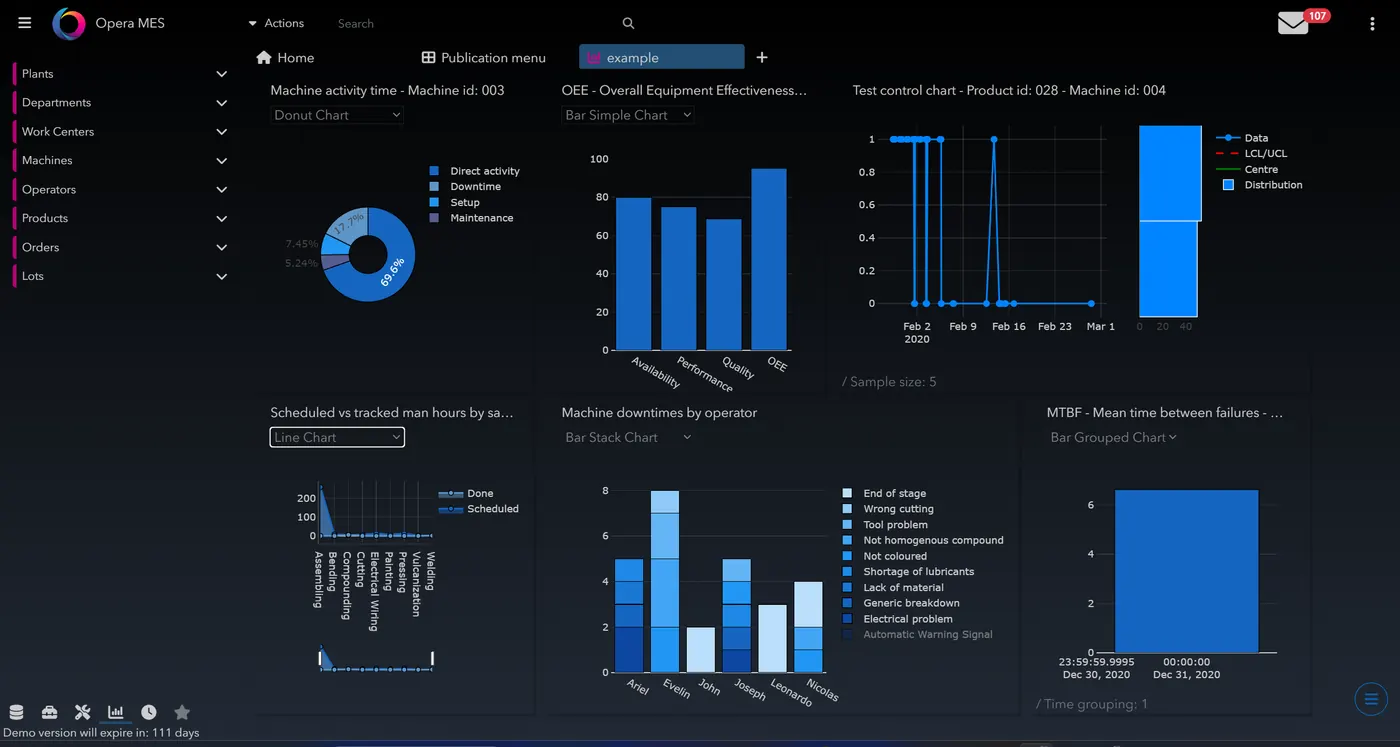
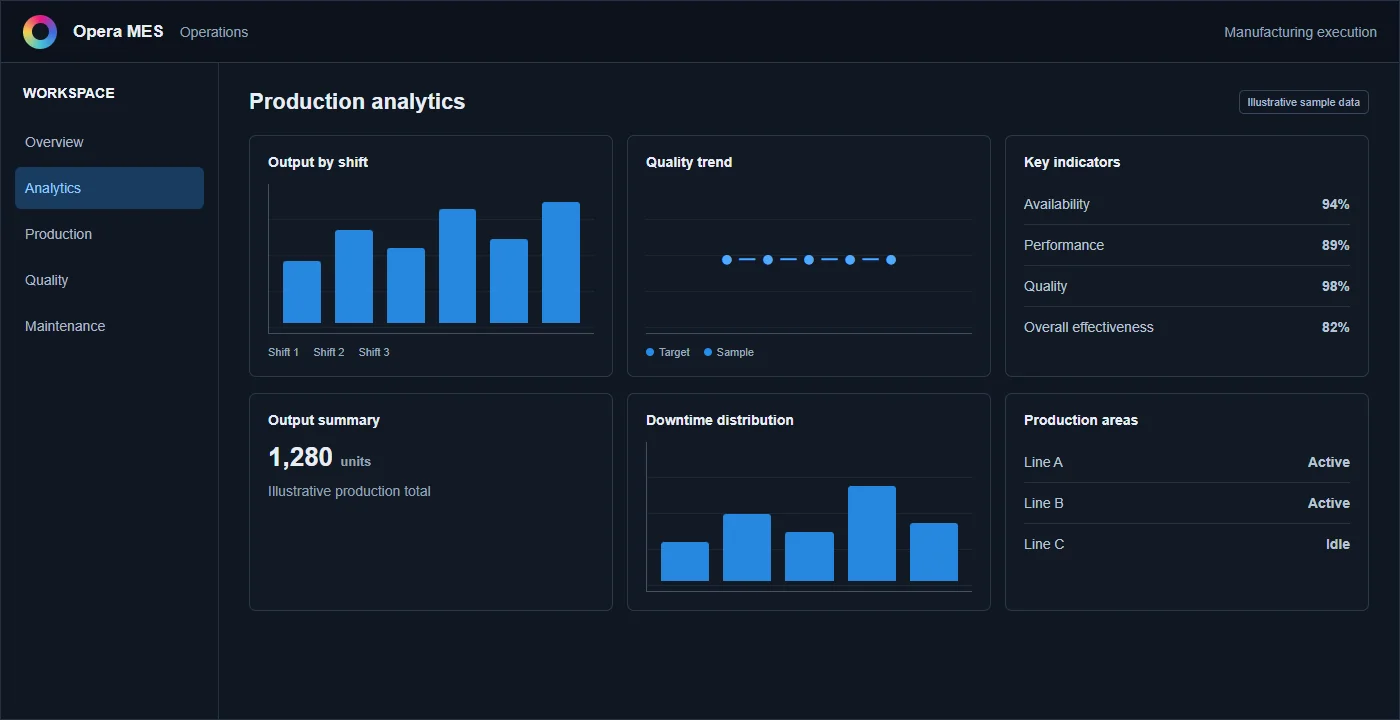
security: replace Opera MES captures with synthetic previews

diff --git a/src/data/project-visuals.ts b/src/data/project-visuals.ts
@@ -63,7 +63,7 @@ export function getProjectVisuals(locale: Locale): Record<ProjectVisualId, Proje
       main: {
         src: "/images/projects/opera-mes/machines.webp",
         alt: locale === "mk" ? "Преглед на интерфејсот за машини во Opera MES" : "Opera MES machines interface preview",
-        label: locale === "mk" ? "Куриран преглед" : "Curated product preview",
+        label: locale === "mk" ? "Синтетички преглед на интерфејс" : "Synthetic interface preview",
         private: true,
       },
       thumbnails: [

diff --git a/docs/status.md b/docs/status.md
@@ -55,7 +55,8 @@ This is the authoritative work list. Update it as part of every implementation p
 - [x] Show only five to seven featured technologies on project cards.
 - [x] Add an accessible project details drawer or equivalent detail view.
 - [x] Clearly label personal, enterprise, client, and learning work using canonical categories.
-- [ ] Review Opera MES visuals using sanitized or synthetic data, not blur alone.
+- [x] Replace Opera MES screenshots with synthetic UI previews; remove the unused login capture.
+- [ ] Decide whether to rewrite Git history to remove the previously committed Opera MES captures.
 - [ ] Add credential links for certifications where available.
 
 ## Phase 5 - UX, Accessibility, And Quality

diff --git a/docs/architecture.md b/docs/architecture.md
@@ -55,6 +55,8 @@ To run E2E against an existing local server in PowerShell, set `$env:E2E_BASE_UR
 
 `src/data/portfolio-data.json` is the canonical source for experience, skills, projects, certifications, and profile counters. `src/data/portfolio-data.ts` types and validates that data during the application build.
 
+Opera MES project previews use synthetic data generated by `npm run generate:opera-previews`. They do not reproduce production records or configuration. Earlier captures remain in prior Git commits, so removing those historical blobs would require a separate coordinated history rewrite.
+
 The data flow is:
 
 1. Localized values live in the same entity.

diff --git a/docs/guides/release.md b/docs/guides/release.md
@@ -29,6 +29,12 @@ Then verify:
 python scripts/generate-cv-pdf.py
 ```
 
+The Opera MES portfolio previews are synthetic and can be regenerated with:
+
+```bash
+npm run generate:opera-previews
+```
+
 The script writes:
 
 - `public/cv/angjel-spasovski-cv.pdf`
